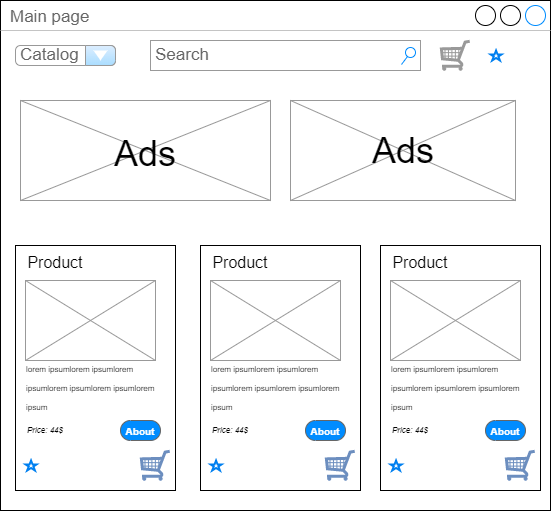
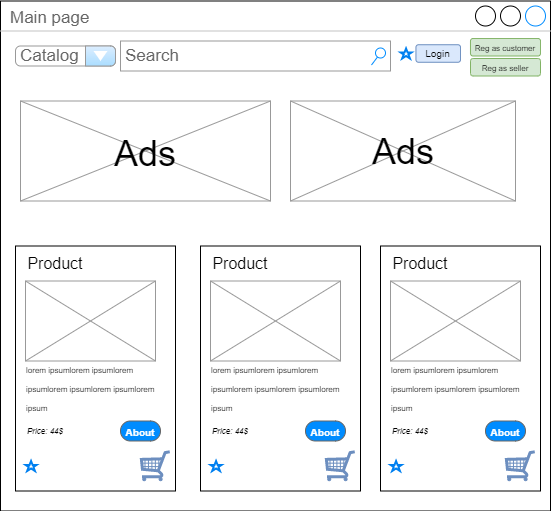
Проектирование интерфейсов

diff --git a/design_stage/Design.md b/design_stage/Design.md
@@ -81,6 +81,12 @@
 
 **Для Гостя**
 
-**Для Продавца**
+![alt text](design/d21.png)
+
+**Для Покупателя**
+
+![alt text](design/d22.png)
 
 **Для Магазина**
+
+![alt text](design/d23.png)
